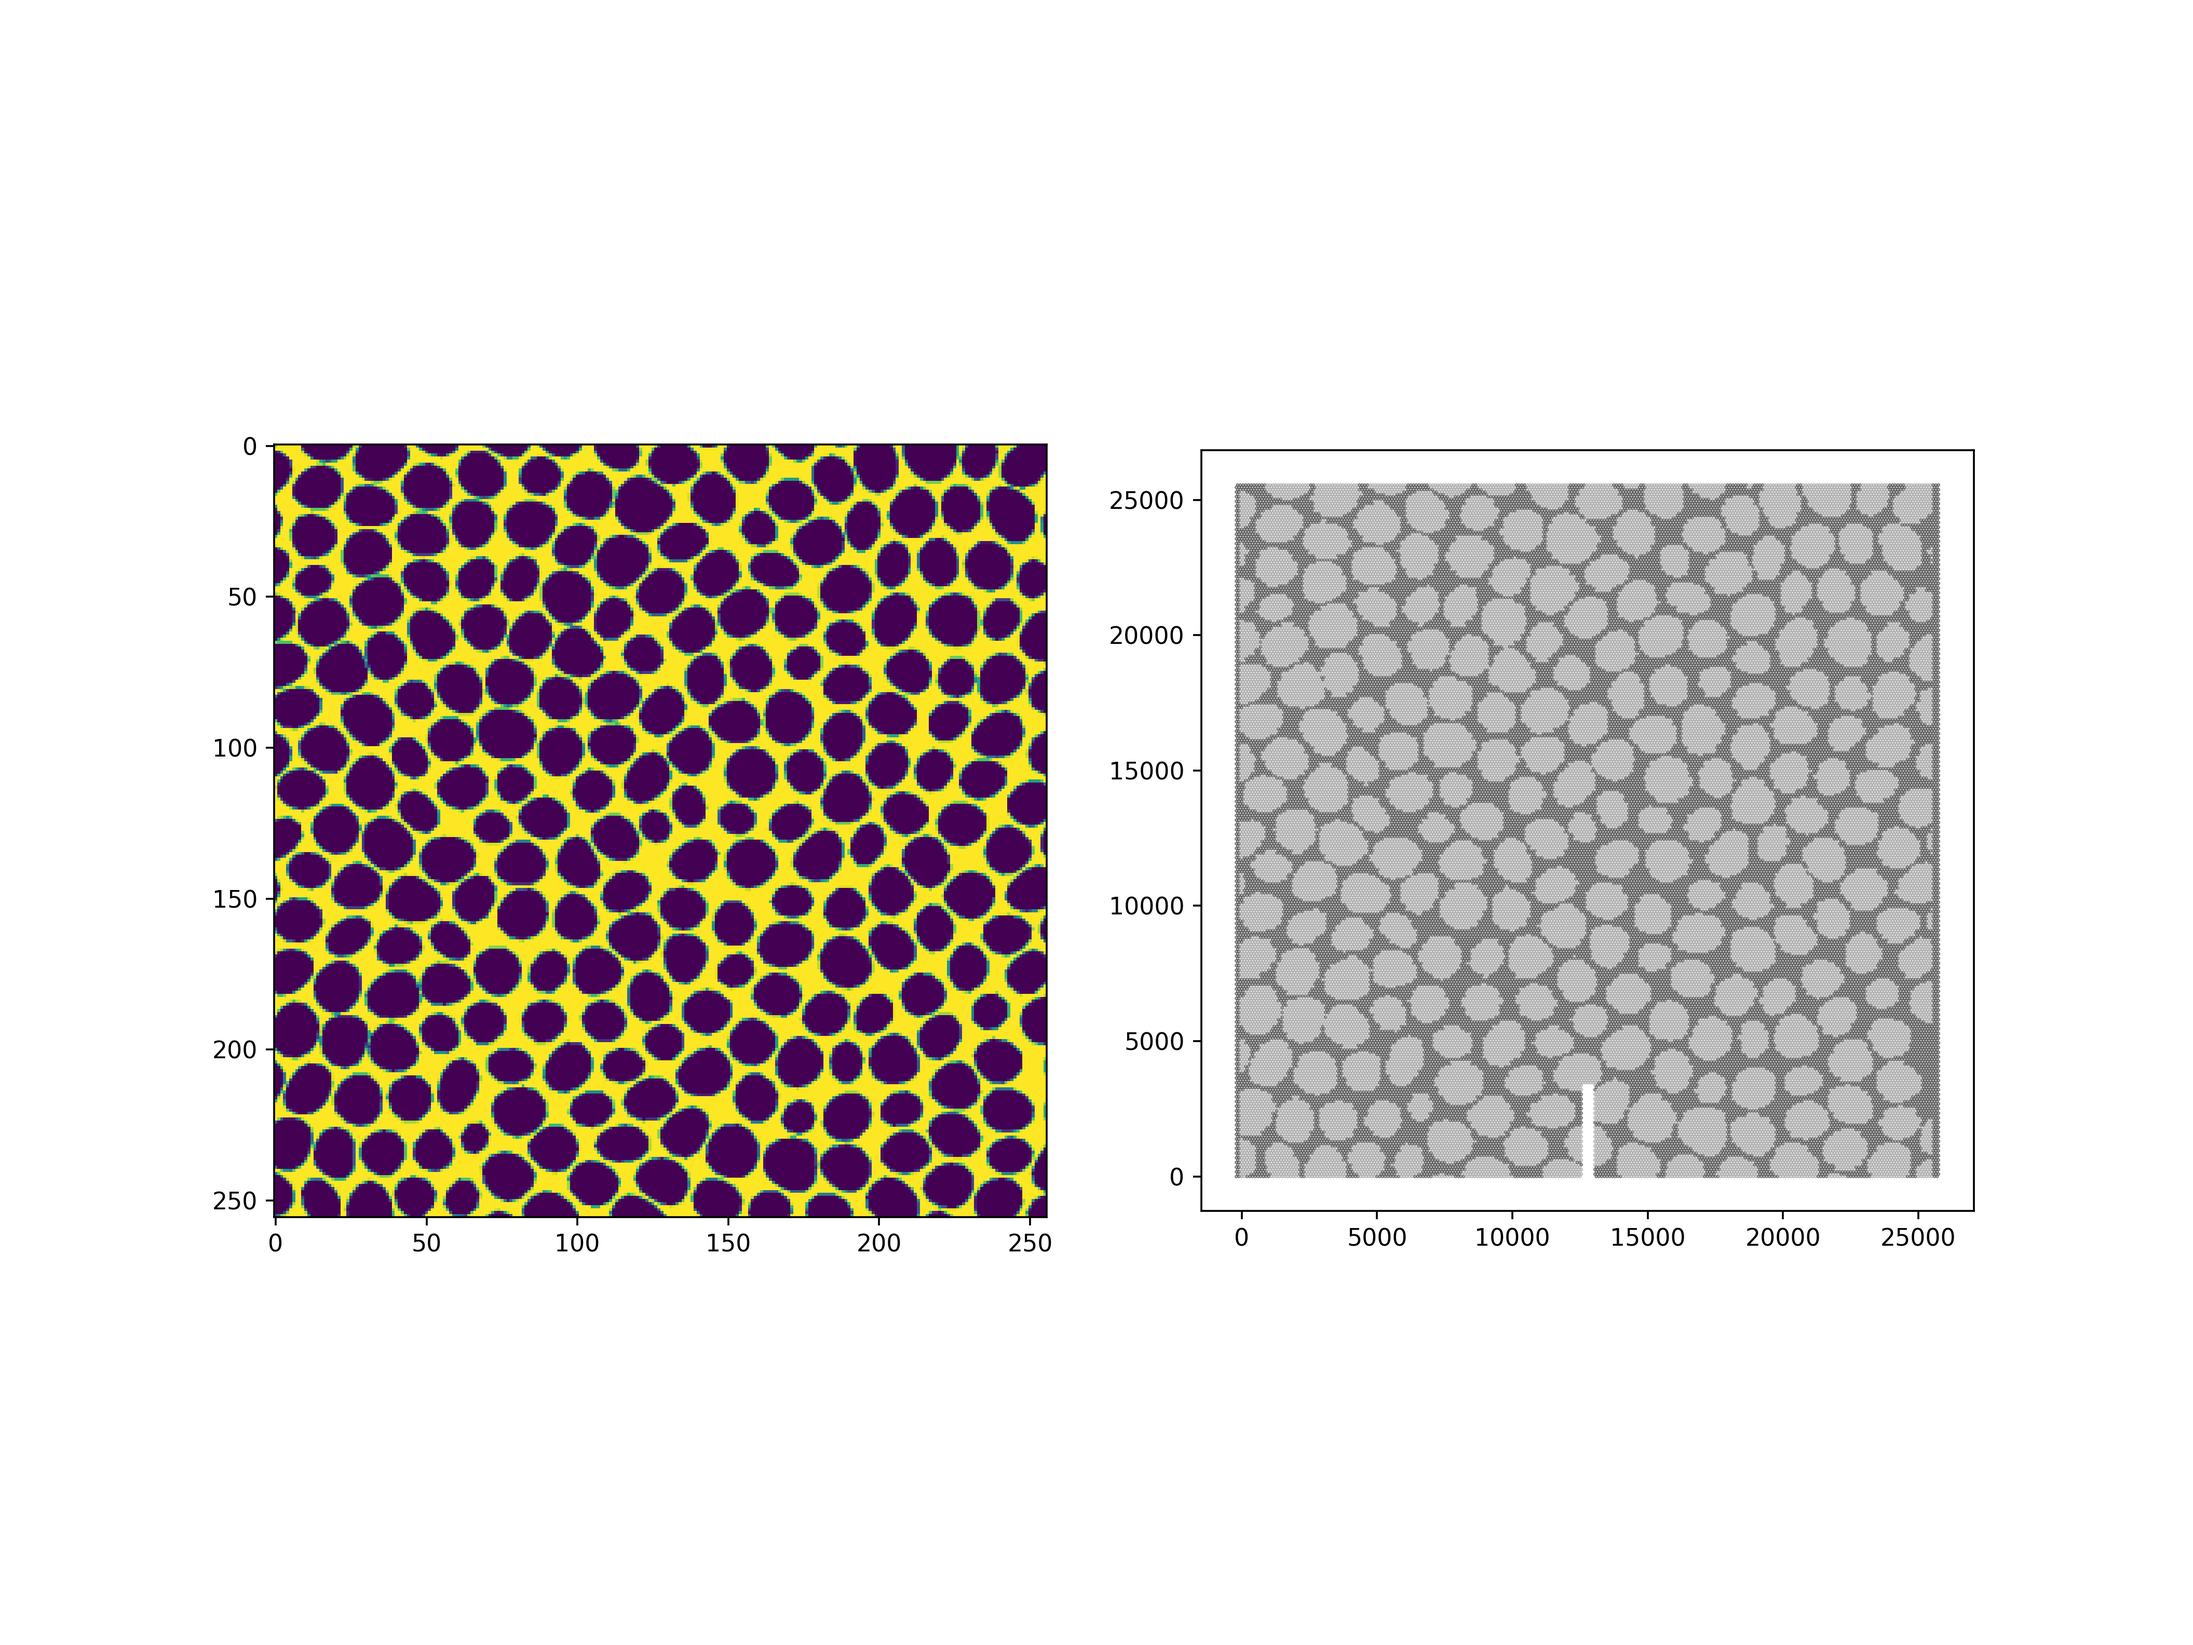
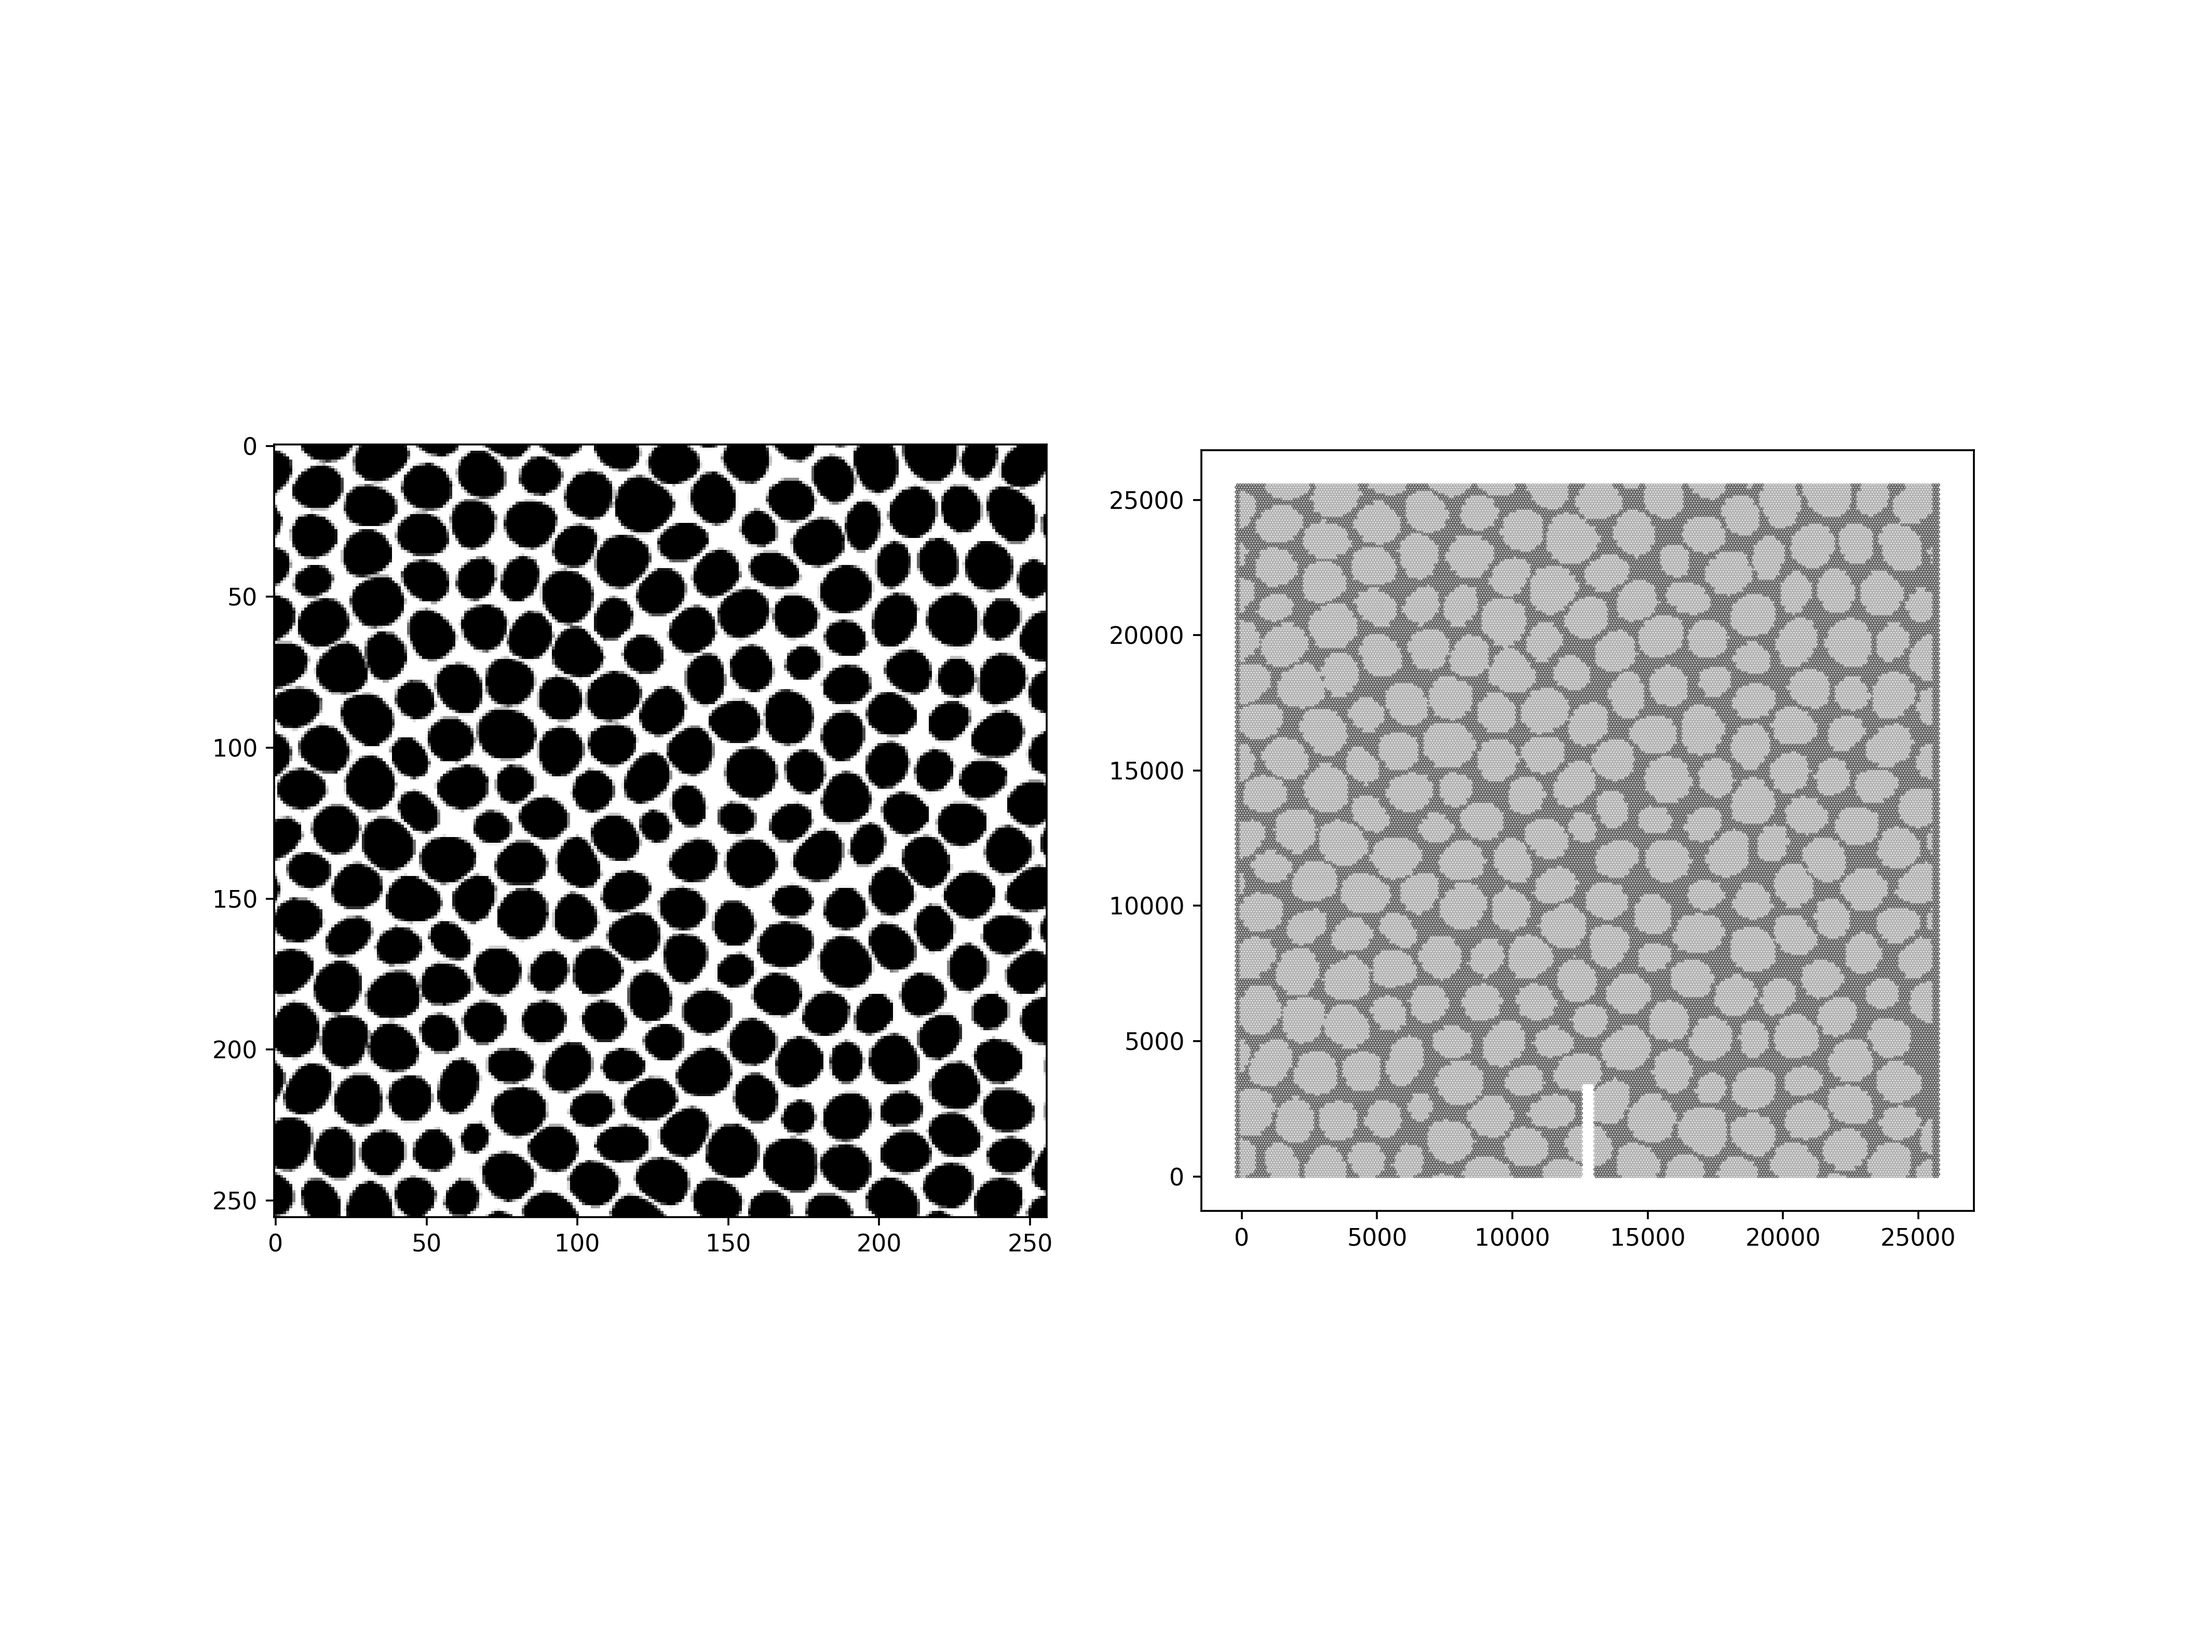
ImgGenerator

Changed region(s): [[0.125, 0.25, 0.5, 0.75]]

diff --git a/ImgGenerator.py b/ImgGenerator.py
@@ -1,0 +1,74 @@
+"""
+Created on Fri Jul  3 11:27:35 2020
+Author: HsienChun Chan, Yuan Chiang
+
+MIT License
+
+Copyright (c) 6th/June/2020
+
+"""
+import sys
+import argparse
+import glob
+import numpy as np
+import math
+from scipy.spatial import Voronoi, voronoi_plot_2d
+from matplotlib import pyplot as plt
+
+
+type = "s"
+n = 21
+
+if type == "v":
+    points = np.random.rand(n,2)   # 0703,0706 using n=128
+
+elif type == "s":
+    points = np.zeros(((n+1)*(n+1),2))
+    for i in range(n+1):
+        for j in range(n+1):
+            points[(n+1)*i+j,0] = i
+            points[(n+1)*i+j,1] = j
+
+elif type == "h":
+     points = np.zeros(((n+1)*(n+2),2))
+     for i in range(n+1):
+         for j in range(n+1):
+             points[(n+1)*i+j,0] = j
+     for i in range(n+1):
+         for j in range(0,n+1,2):
+             points[j+(n+1)*i,1] = 2*(3**0.5)/3 * i
+         for j in range(0,n,2):
+             points[j+(n+1)*i+1,1] =  2*(3**0.5)/3 * (i+0.5)
+points = np.append(points, [[999,999], [-999,999], [999,-999], [-999,-999]], axis = 0)
+
+vor = Voronoi(points,furthest_site=False)
+fig = voronoi_plot_2d(vor,line_width=5,show_vertices=False,show_points=False)
+
+
+plt.axis("square")
+
+if type == "v":
+    plt.xlim([0,1]), plt.ylim([0,1])
+elif type == "s":
+    plt.xlim([0,n]), plt.ylim([0,n])
+elif type == "h":
+    plt.xlim([0,n]), plt.ylim([0,n])
+
+
+plt.gca().set_axis_off()
+
+#plt.gca().xaxis.set_major_locator(plt.NullLocator())
+#plt.gca().yaxis.set_major_locator(plt.NullLocator())
+
+#plt.margins(0,0)
+plt.subplots_adjust(left=0, bottom=0, right=1, top=1, wspace=0, hspace=0)
+
+plt.show()
+'''
+if type == "v":
+    plt.savefig("/home/swclab/Documents/lammps/picture/Voronoi.jpg",dpi=330, bbox_inches = 'tight',pad_inches = 0)
+elif type == "s":
+    plt.savefig("/home/swclab/Documents/lammps/picture/Square.jpg",dpi=330, bbox_inches = 'tight',pad_inches = 0)
+elif type == "h":
+    plt.savefig("/home/swclab/Documents/lammps/picture/Hexagon.jpg",dpi=330, bbox_inches = 'tight',pad_inches = 0)
+'''

diff --git a/Img2Particle.py b/Img2Particle.py
@@ -33,8 +33,10 @@ parser.add_argument('-lz', dest='lz', metavar='Lz',type=float, default=1,
                     help='model size in z dimension\t(default = 1)')
 parser.add_argument('-s', dest='s', metavar='lc', type=float, default=100,
                     help='lattice constant = particle spacing along (100)\t(default = 100)')
+parser.add_argument('-t', dest='types', metavar='types', type=int, default=2,
+                    help='number of particle types')
 parser.add_argument('-n',dest='nsize', metavar='len', nargs=2, type=float, default=[500, 3400],
-                    help='create notch with lengths in x and y dimension')
+                    help='create notch with lengths in x and y dimension\t(default = [500, 3400])')
 parser.add_argument('--version', action='version', version='%(prog)s {:s}'.format(version))
 
 args = parser.parse_args()
@@ -110,7 +112,7 @@ print("Create atoms: {:d}".format(natoms))
 
 # ===== Change Types
 
-ntypes = 2
+ntypes = args.types
 
 rows, cols = img.shape
 colt = dtype.get('type')
@@ -156,7 +158,7 @@ if single == True:
 plt.figure(figsize=[12.8, 9.6], dpi=330, facecolor=None, edgecolor=None, frameon=True)
 
 plt.subplot(121)
-plt.imshow(img,cmap='viridis')
+plt.imshow(img,cmap='gist_gray')
 
 plt.subplot(122)
 plt.scatter(atoms[:,colx],atoms[:,coly],s=0.1,marker="o",c=color)
